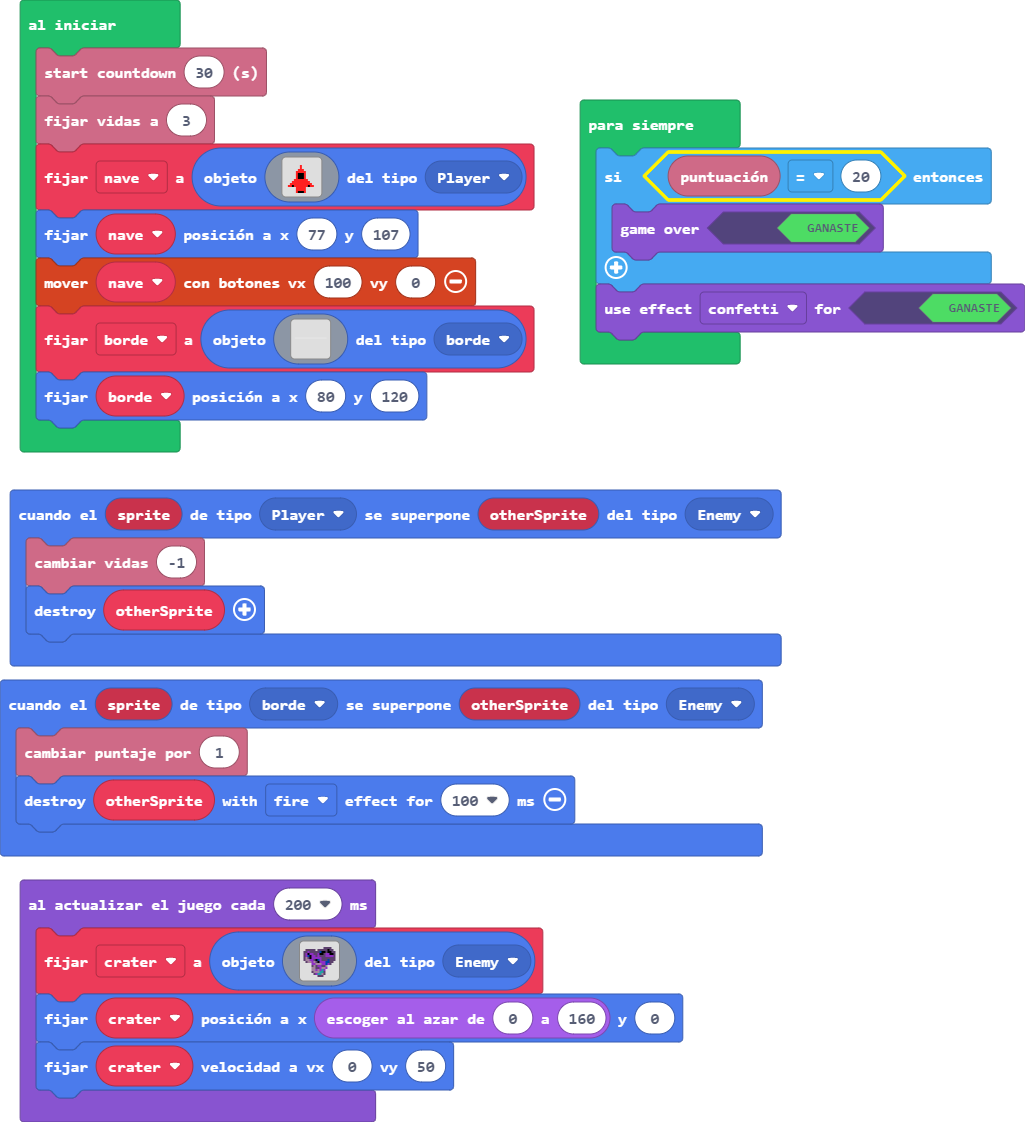
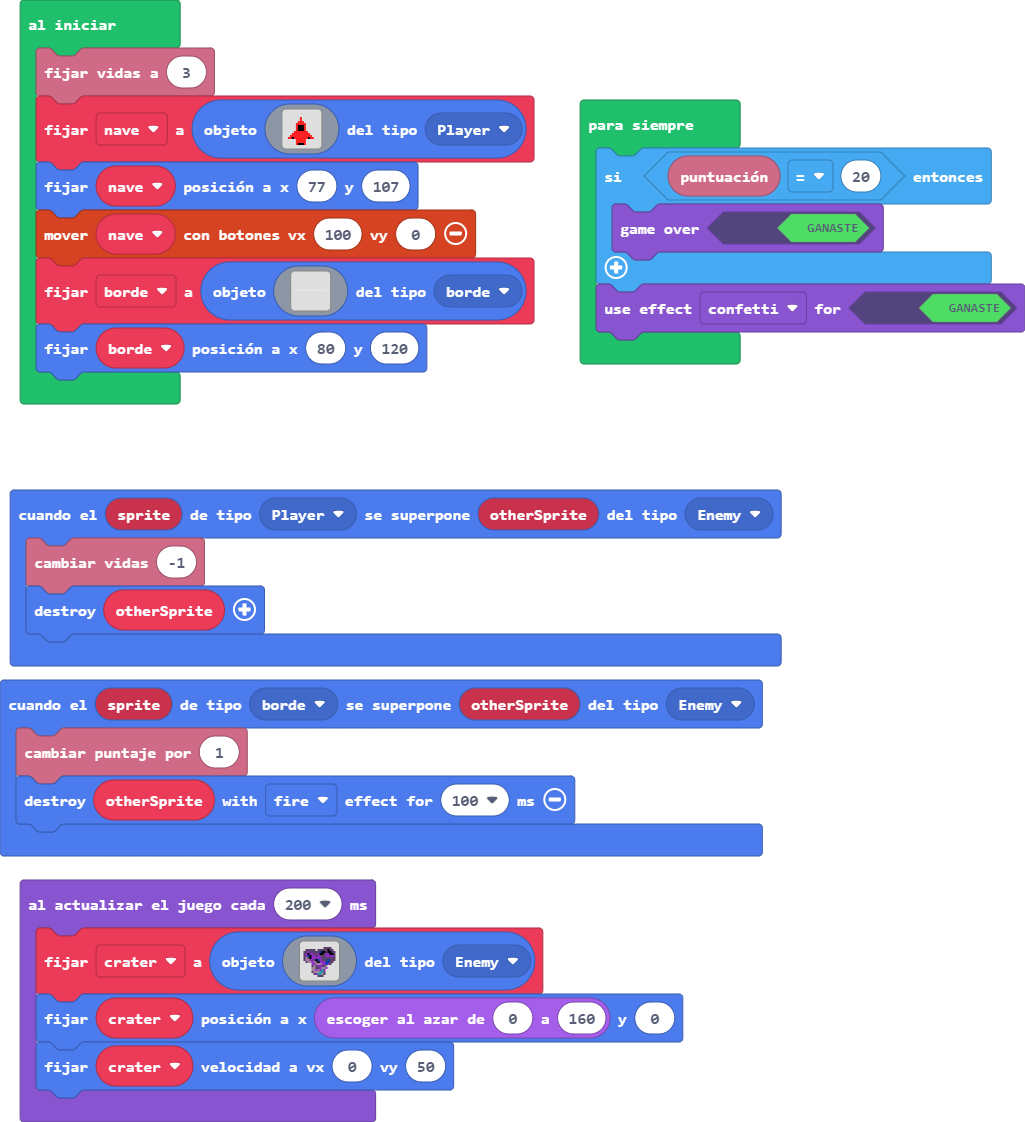
Actualizar main.blocks, main.ts

Changed region(s): [[0.0, 0.0312, 0.5307, 0.4055], [0.6244, 0.1248, 0.8741, 0.1872]]

diff --git a/main.ts b/main.ts
@@ -10,7 +10,6 @@ sprites.onOverlap(SpriteKind.Player, SpriteKind.Enemy, function (sprite, otherSp
     sprites.destroy(otherSprite)
 })
 let crater: Sprite = null
-info.startCountdown(30)
 info.setLife(3)
 let nave = sprites.create(img`
     . . . . . . . . . . . . . . . . 
